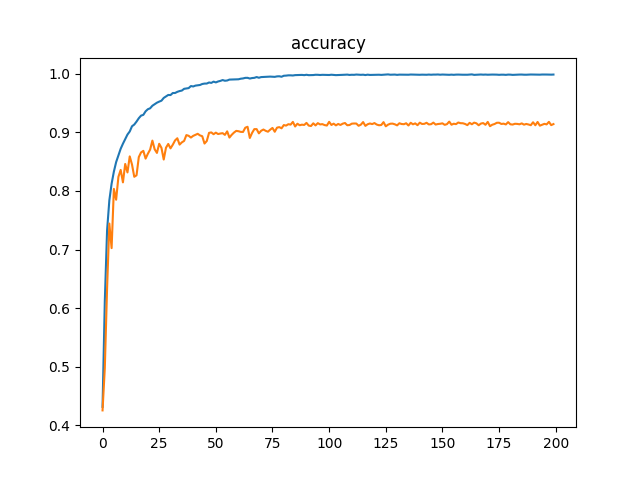
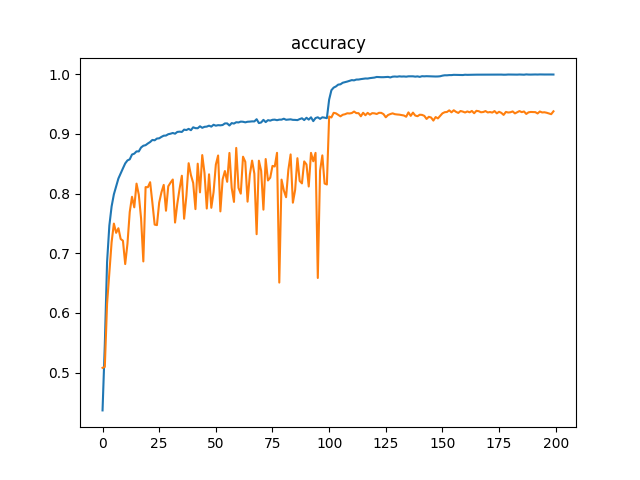
tuned.

diff --git a/README.md b/README.md
@@ -24,9 +24,7 @@ $ python3 check.py
 
 ![accuracy](./results/accuracy.png)
 
-私が試した結果だと、cifar10の精度は91.40%になりました。
-
-※weight decayに相当すると思われるkernel_regularizerを追加して再計測中です。
+私が試した結果だと、CIFAR-10の精度は93.77%になりました。
 
 # Notes
 
